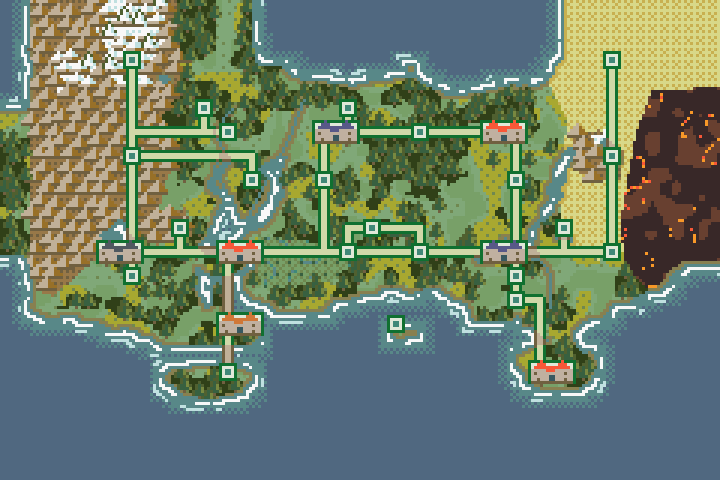
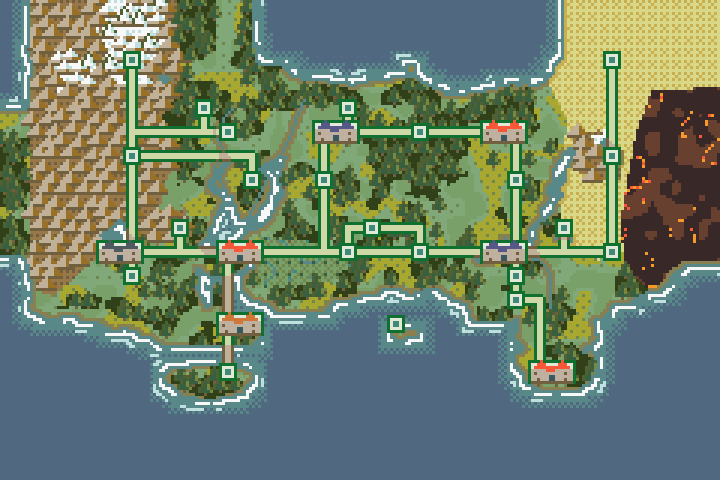
Victory Cape is part of the mainland: atlas + region map
User 2026-11-18: Victory Cape is a big cape/shoreline stretching south
from the mainland, not its own island. Atlas entry corrected (Paragon
Road runs down the cape). The region map broadens the neck the
painting draws thin (classify.FORCE_LAND), so the cape reads as
mainland; mockup_v2.png updated. Topology checks pass.

Claude-Session: https://claude.ai/code/session_01FHXnfqnedTHLf5QFbB3MCU

Changed region(s): [[0.7028, 0.6562, 0.8556, 0.8125], [0.2444, 0.75, 0.3361, 0.8438], [0.275, 0.6875, 0.3667, 0.7188]]

diff --git a/tools/region_map/classify.py b/tools/region_map/classify.py
@@ -42,6 +42,9 @@ BIOMES = [
 ]
 FORCE_SEA = [(540, 0, 995, 72), (15, 760, 200, 960),       # title cartouche, compass rose
              (330, 815, 560, 858)]                          # the strait under the Riptide Bridge: Windrunner is an island
+FORCE_LAND = [  # (polygon in painting coords) land the painting draws too thin for the grid
+ [(1135,700),(1275,700),(1290,800),(1240,830),(1160,830),(1120,800)],   # Victory Cape is a broad cape, not an island
+]
 RIVERS = [
  [(485,185),(445,240),(465,300),(450,345),(475,410),(460,470),(450,545)],          # Ivy River, west branch
  [(650,165),(640,180),(610,280),(580,330),(550,420),(520,480),(480,545)],          # Ivy River, east branch
@@ -122,6 +125,9 @@ def class_map(src_path, W=240, H=160, ss=4):
     for name, poly in BIOMES: d.polygon([to_screen(p) for p in poly], fill=CLASSES.index(name))
     for x0, y0, x1, y1 in FORCE_SEA: d.rectangle([to_screen((x0, y0)), to_screen((x1, y1))], fill=254)
     lay = np.asarray(lay)
+    fl = Image.new('L', (W, H), 0); df = ImageDraw.Draw(fl)
+    for poly in FORCE_LAND: df.polygon([to_screen(p) for p in poly], fill=1)
+    base = np.where((np.asarray(fl) == 1) & (base == DEEP), GRASS, base)
     water = (base == DEEP) | (lay == 254)
     water = _majority(water.astype(np.uint8), 3, [0, 1]).astype(bool)
     lab, sz = _components(water);  water[(sz[lab] < 5) & water] = False      # specks of water in land

diff --git a/bible/19_location_atlas.md b/bible/19_location_atlas.md
@@ -120,7 +120,7 @@ Gated pacing: **Veddev is sealed** by a shadowy barrier until mid-game, forcing 
 - **Riptide Bridge** `[LOCKED v0.9.10]` — *(south; Rivetshore → Windrunner)* — a long **water-crossing bridge-chain** (RBY Lavender-south feel) hard-gating the island.
 - **Windrunner Island** `[LOCKED v0.9.10]` — *(far south; its own island)* — hosts the **Raptora estate**; **Trial 5 venue** (Falco Raptora, Flying, Firmament, cap 41); unlocks the Z-Bracelet. DM-fate: replaced by a **Ranger HQ**.
 - **Keerin Shrine** `[LOCKED v0.9.10 — placement]` — *(south-central; small island)* — the **Mt.-Silver-equivalent**: a shrine to **Keerin** (Cormor's cosmic partner, Section 9) and the site of the post-Champion **Future-Red / Keerin** secret fight (Sections 7, 11).
-- **Paragon Gate → Paragon Road → Victory Cape** `[LOCKED v0.9.10 — placement]` — *(SE; Victory Cape is its own island)* — the endgame approach. **Paragon Gate** gates the lead-in (near Fennilahl Suburbs); **Paragon Road** crosses to **Victory Cape**, the **Championship / Hall of Fame** venue and host of the fixed **Paragon Gauntlet** (Jordan → Wakahisa → Eden; Sections 8, 11). DM-fate: **Victory Road Cormoria / Victory Cape** (DM's Championship).
+- **Paragon Gate → Paragon Road → Victory Cape** `[LOCKED v0.9.10 — placement]` — *(SE; Victory Cape is **part of the mainland**: a big cape and shoreline stretching south from the coast below Fennilahl — user 2026-11-18, superseding "its own island")* — the endgame approach. **Paragon Gate** gates the lead-in (near Fennilahl Suburbs); **Paragon Road** runs down the cape to **Victory Cape**, the **Championship / Hall of Fame** venue and host of the fixed **Paragon Gauntlet** (Jordan → Wakahisa → Eden; Sections 8, 11). DM-fate: **Victory Road Cormoria / Victory Cape** (DM's Championship).
 
 ### 15.5 Trial venue assignments
 
